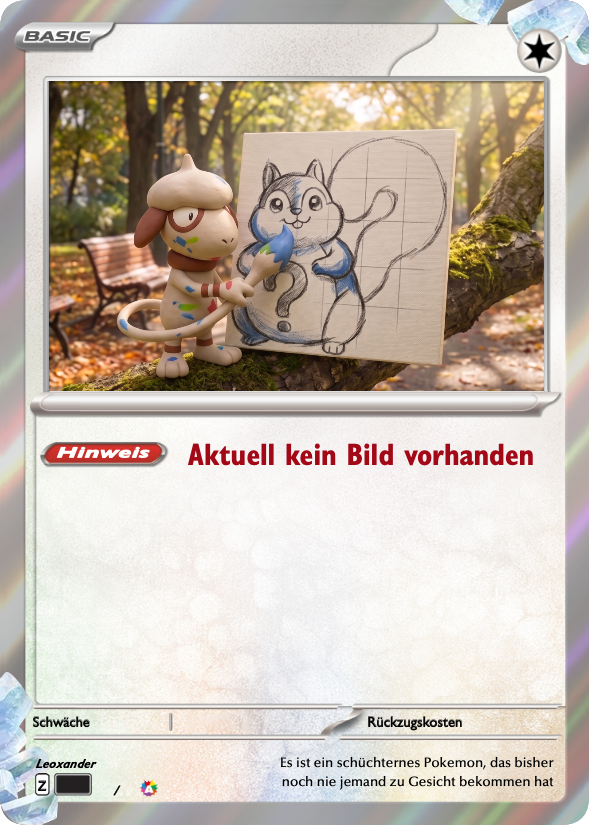
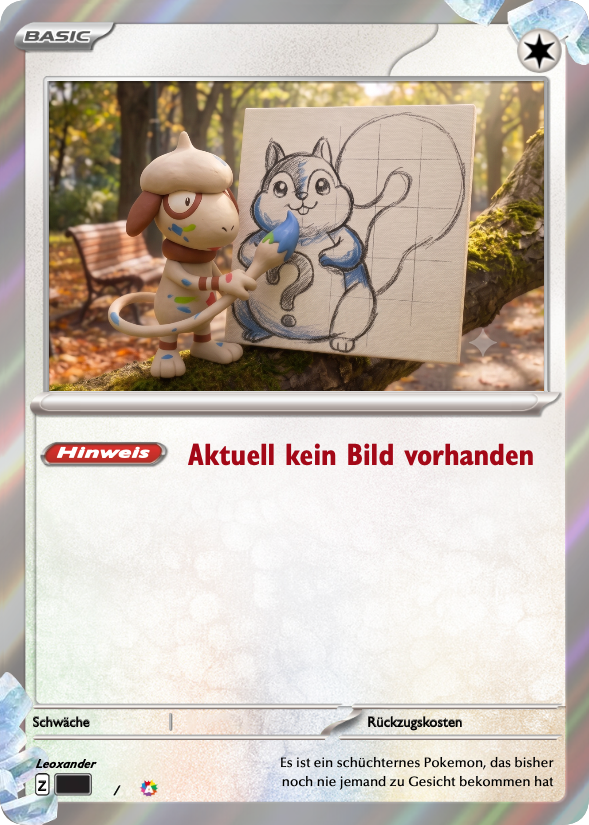
feat(card): typ-spezifische „Kein Bild"-Platzhalterkarten je Energietyp
CardPlaceholder wählt für katalogisierte Karten ohne Bild ein Platzhalterbild
passend zum ersten Energietyp (/no-card-image-<typ>.png). Fehlt eins, fällt es
per onError automatisch auf /no-card-image.png zurück. Pending-Karten bleiben
beim generischen Pending-Template. `types` wird dafür wieder ausgewertet.

Neue Bilder: grass, fire, water, lightning, psychic, fighting, darkness, metal,
dragon (fairy + colorless folgen später → Fallback).

Changed region(s): [[0.0611, 0.0909, 0.9474, 0.4848]]

diff --git a/components/card/CardPlaceholder.tsx b/components/card/CardPlaceholder.tsx
@@ -1,6 +1,7 @@
 'use client';
 
 import { useEffect, useLayoutEffect, useRef, useState } from 'react';
+import { ENERGY_META, type EnergyType } from '@/components/ui/EnergyIcon';
 
 // useLayoutEffect vermeidet ein sichtbares „Zucken" der Namensgröße; auf dem
 // Server (SSR) auf useEffect ausweichen, um die React-Warnung zu vermeiden.
@@ -41,7 +42,7 @@ export function CardPlaceholder({
   style?: React.CSSProperties;
   onClick?: () => void;
 }) {
-  const { name, hp, number, dexNumber, setCode, pending } = info;
+  const { name, hp, number, dexNumber, setCode, types, pending } = info;
 
   // Namensgröße: Basis = KP-Wert-Größe (5.8cqw). Nur wenn der Name zu breit wird
   // und sonst ins KP-Feld liefe, schrumpft er gerade so weit, dass er komplett
@@ -74,7 +75,19 @@ export function CardPlaceholder({
   const numFont = '"Futura", "Futura-Bold", "Jost", "Century Gothic", sans-serif';
 
   // Beide Vorlagen haben denselben Kartenrahmen → identische Overlay-Positionen.
-  const bgSrc = pending ? '/pending-card-template.png' : '/no-card-image.png';
+  // Für „kein Bild" (katalogisiert) kann es ein Platzhalterbild JE ENERGIETYP
+  // geben (`/no-card-image-<typ>.png`, z.B. `/no-card-image-grass.png`). Fehlt
+  // eins (noch), fällt es automatisch (onError) auf das generische Bild zurück.
+  // Pending-Karten haben meist keinen bekannten Typ → immer generisches Template.
+  const NO_IMAGE_GENERIC = '/no-card-image.png';
+  const t0 = types?.[0];
+  const typeKey = (!pending && t0 && t0 in ENERGY_META) ? (t0 as EnergyType).toLowerCase() : null;
+  const preferredBg = pending
+    ? '/pending-card-template.png'
+    : (typeKey ? `/no-card-image-${typeKey}.png` : NO_IMAGE_GENERIC);
+  const [bgFailed, setBgFailed] = useState(false);
+  useEffect(() => { setBgFailed(false); }, [preferredBg]);
+  const bgSrc = bgFailed ? NO_IMAGE_GENERIC : preferredBg;
 
   return (
     <div
@@ -89,6 +102,7 @@ export function CardPlaceholder({
         src={bgSrc}
         alt=""
         className="absolute inset-0 w-full h-full object-cover rounded-[5%]"
+        onError={() => { if (bgSrc !== NO_IMAGE_GENERIC) setBgFailed(true); }}
       />
       {/* Rotes „?"-Eck-Badge oben links — NUR bei vorläufigen Karten. Gleiche
           Form/Optik wie das gelbe „!"-Prüfen-Badge (CardBadge, corner="tl"):
